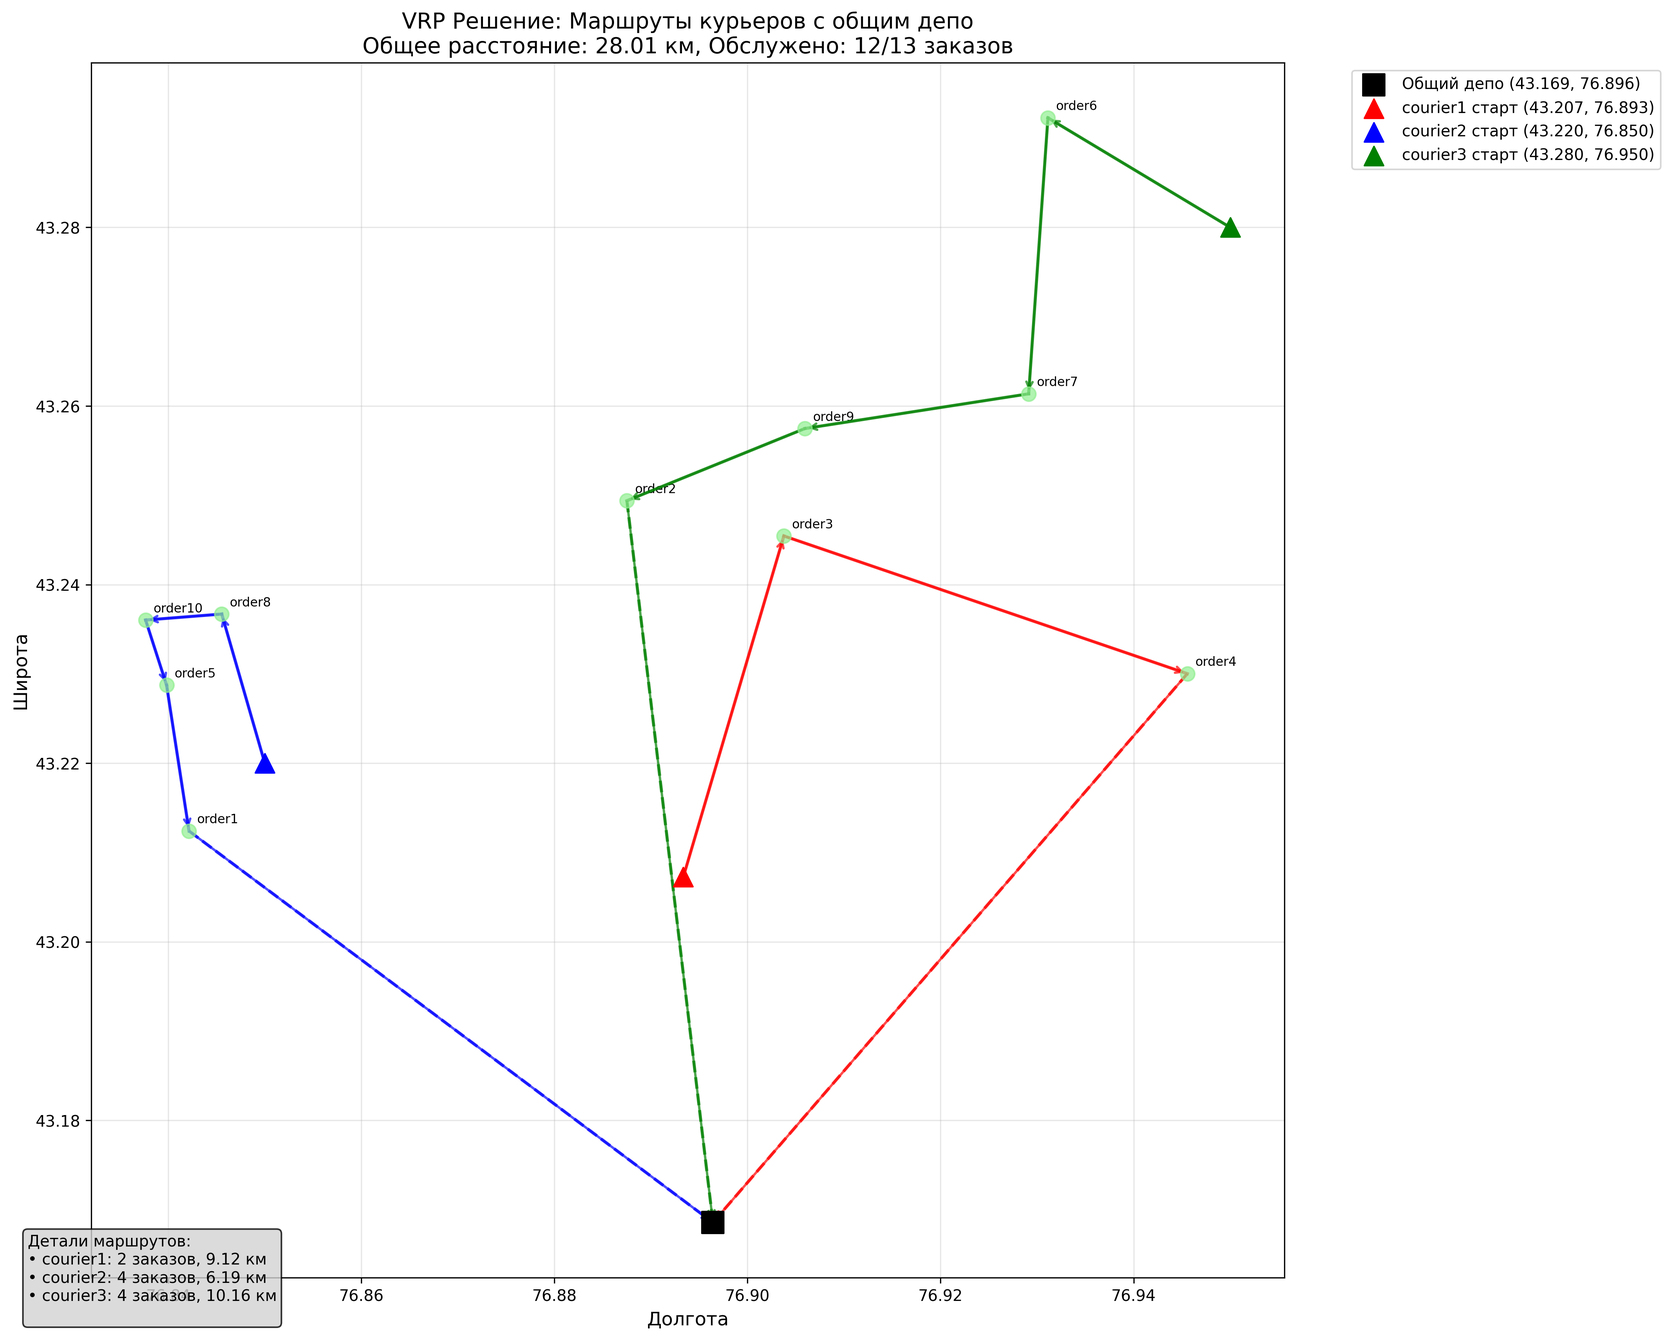
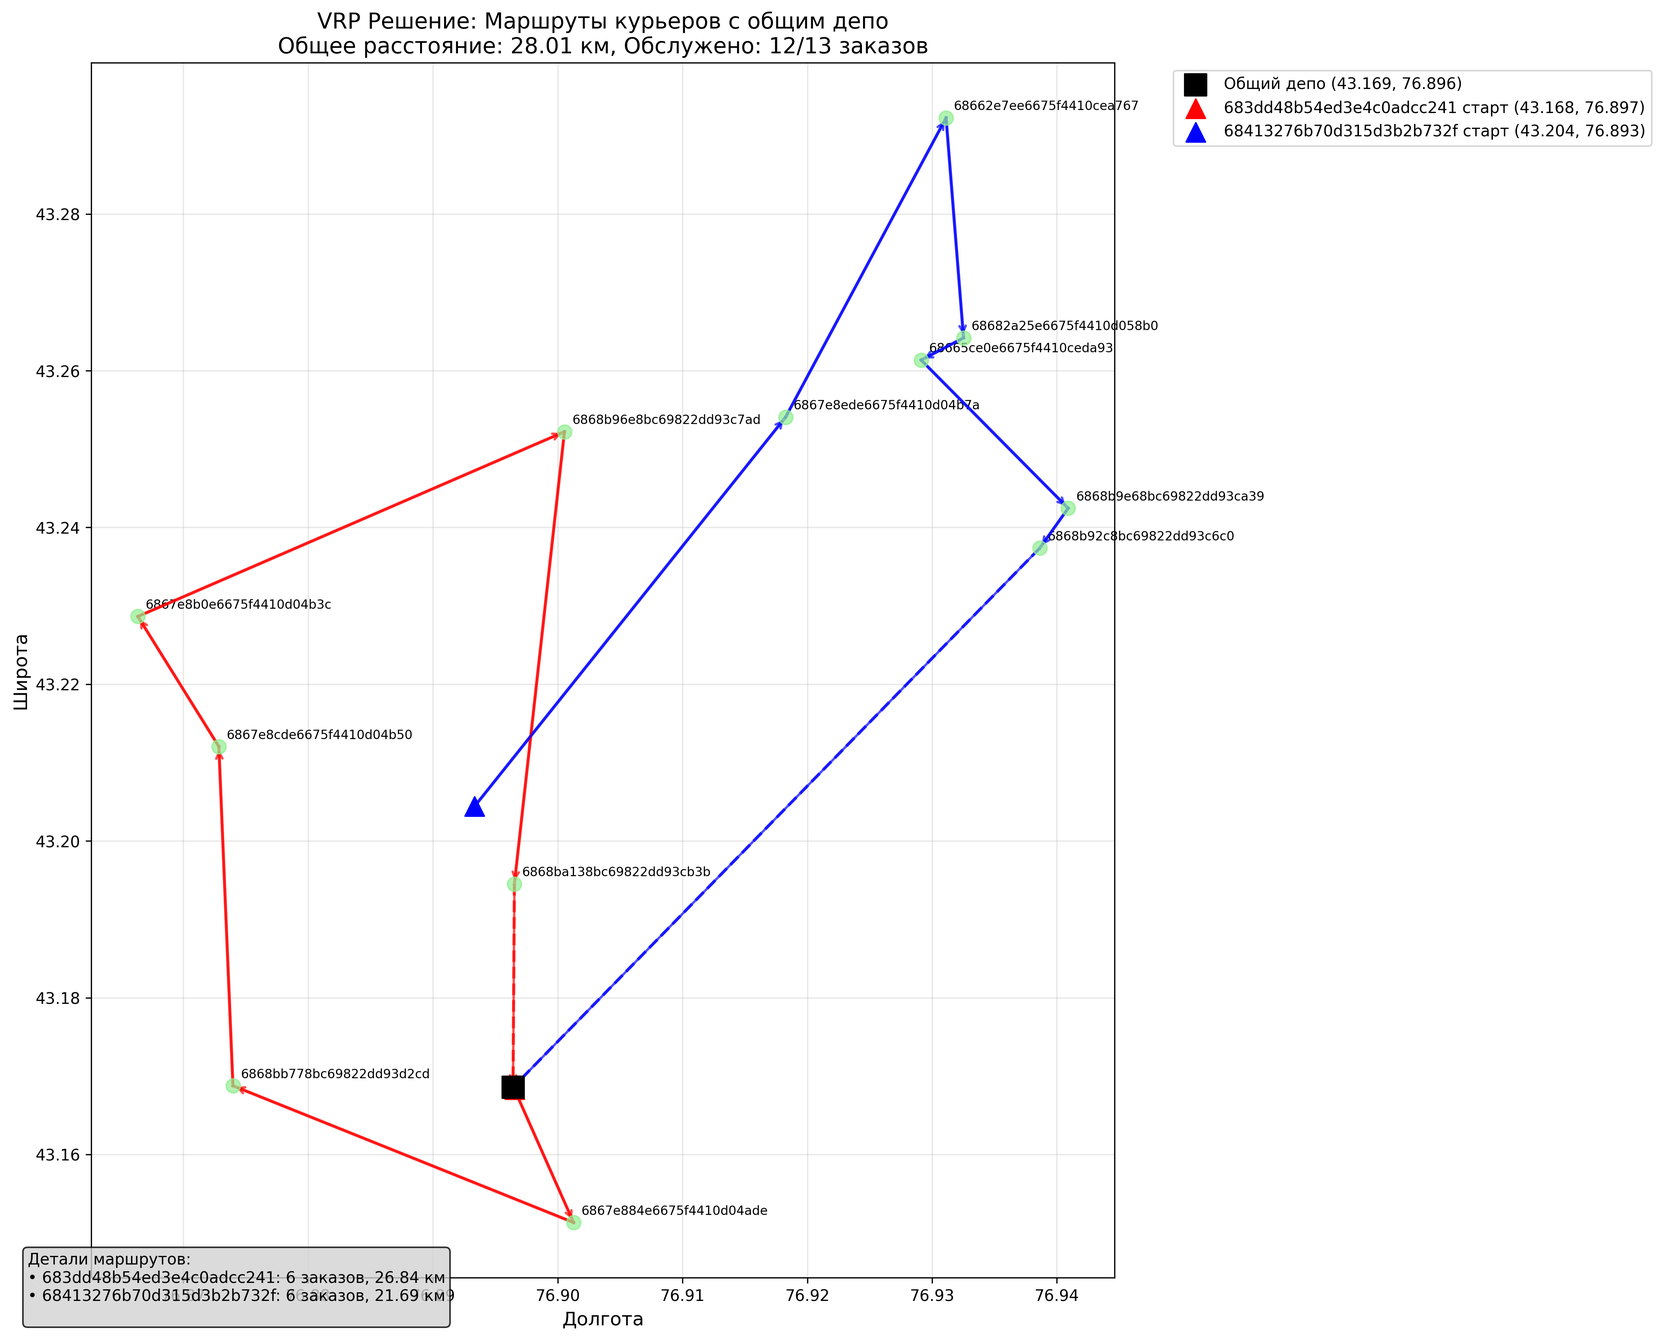
05.07.2025 orTools version 3

diff --git a/test_optimization.js b/test_optimization.js
@@ -1,0 +1,150 @@
+import { runPythonVRP } from './orTools.js';
+import { spawn } from 'child_process';
+import path from 'path';
+
+// Тестовые данные из вашего лога
+const testData = {
+    couriers: [
+        {
+            id: '683dd48b54ed3e4c0adcc241',
+            lat: 43.168277314921774,
+            lon: 76.89654142009347
+        },
+        {
+            id: '68413276b70d315d3b2b732f',
+            lat: 43.2044094,
+            lon: 76.893334
+        }
+    ],
+    orders: [
+        { id: '68662e7ee6675f4410cea767', lat: 43.292268, lon: 76.931119 },
+        { id: '68665ce0e6675f4410ceda93', lat: 43.261362, lon: 76.929122 },
+        { id: '6867e884e6675f4410d04ade', lat: 43.151319, lon: 76.901267 },
+        { id: '6867e8b0e6675f4410d04b3c', lat: 43.228644, lon: 76.866358 },
+        { id: '6867e8cde6675f4410d04b50', lat: 43.212045, lon: 76.872848 },
+        { id: '6867e8ede6675f4410d04b7a', lat: 43.254082, lon: 76.918261 },
+        { id: '68682a25e6675f4410d058b0', lat: 43.264191, lon: 76.932518 },
+        { id: '6868b92c8bc69822dd93c6c0', lat: 43.237369, lon: 76.938627 },
+        { id: '6868b96e8bc69822dd93c7ad', lat: 43.252214, lon: 76.90054 },
+        { id: '6868b9e68bc69822dd93ca39', lat: 43.242453, lon: 76.9409 },
+        { id: '6868ba138bc69822dd93cb3b', lat: 43.194514, lon: 76.896529 },
+        { id: '6868bb778bc69822dd93d2cd', lat: 43.168765, lon: 76.873977 }
+    ],
+    courier_restrictions: {}
+};
+
+// Функция для запуска старого алгоритма
+function runOldAlgorithm(couriers, orders, courier_restrictions) {
+    return new Promise((resolve, reject) => {
+        const pythonPath = process.platform === "win32"
+            ? path.join(process.cwd(), "venv", "Scripts", "python.exe")
+            : path.join(process.cwd(), "venv", "bin", "python");
+
+        const python = spawn(pythonPath, ["./orTools/vrp_solver2.py"]);
+
+        const input = {
+            common_depot: { id: "depot", lat: 43.16857, lon: 76.89642 },
+            couriers,
+            orders,
+            courier_restrictions,
+        };
+
+        let output = "";
+        let error = "";
+
+        python.stdout.on("data", (data) => {
+            output += data.toString();
+        });
+
+        python.stderr.on("data", (data) => {
+            error += data.toString();
+        });
+
+        python.on("close", (code) => {
+            if (code === 0) {
+                try {
+                    const parsed = JSON.parse(output);
+                    resolve(parsed);
+                } catch (e) {
+                    reject("Ошибка парсинга: " + e.message);
+                }
+            } else {
+                reject(`Старый алгоритм завершился с кодом ${code}\n${error}`);
+            }
+        });
+
+        python.stdin.write(JSON.stringify(input));
+        python.stdin.end();
+    });
+}
+
+// Функция для анализа результатов
+function analyzeResults(routes, label) {
+    const orderCounts = routes.map(r => r.orders_count);
+    const distances = routes.map(r => r.distance_km);
+    const totalDistance = distances.reduce((a, b) => a + b, 0);
+    const maxOrders = Math.max(...orderCounts);
+    const minOrders = Math.min(...orderCounts);
+    const balance = maxOrders - minOrders;
+
+    console.log(`\n=== ${label} ===`);
+    console.log(`Распределение заказов: ${orderCounts.join('/')}`);
+    console.log(`Расстояния: ${distances.join('км, ')}км`);
+    console.log(`Общее расстояние: ${totalDistance.toFixed(2)}км`);
+    console.log(`Балансировка: ${balance} (0 = идеальная)`);
+    
+    return {
+        orderCounts,
+        distances,
+        totalDistance,
+        balance
+    };
+}
+
+// Основная функция тестирования
+async function testOptimization() {
+    console.log('🧪 Тестирование оптимизации VRP алгоритма...');
+    console.log(`Курьеры: ${testData.couriers.length}`);
+    console.log(`Заказы: ${testData.orders.length}`);
+    
+    try {
+        // Запускаем старый алгоритм
+        console.log('\n🔄 Запуск старого алгоритма...');
+        const oldResults = await runOldAlgorithm(
+            testData.couriers,
+            testData.orders,
+            testData.courier_restrictions
+        );
+        
+        const oldAnalysis = analyzeResults(oldResults, 'СТАРЫЙ АЛГОРИТМ');
+        
+        // Запускаем новый алгоритм
+        console.log('\n🔄 Запуск нового оптимизированного алгоритма...');
+        const newResults = await runPythonVRP(
+            testData.couriers,
+            testData.orders,
+            testData.courier_restrictions
+        );
+        
+        const newAnalysis = analyzeResults(newResults, 'НОВЫЙ АЛГОРИТМ');
+        
+        // Сравнение результатов
+        console.log('\n📊 СРАВНЕНИЕ РЕЗУЛЬТАТОВ:');
+        console.log(`Улучшение балансировки: ${oldAnalysis.balance} → ${newAnalysis.balance} (${oldAnalysis.balance - newAnalysis.balance >= 0 ? '✅' : '❌'})`);
+        console.log(`Изменение расстояния: ${oldAnalysis.totalDistance.toFixed(2)}км → ${newAnalysis.totalDistance.toFixed(2)}км (${(newAnalysis.totalDistance - oldAnalysis.totalDistance).toFixed(2)}км)`);
+        
+        if (newAnalysis.balance < oldAnalysis.balance) {
+            console.log('🎉 Новый алгоритм показал лучшую балансировку!');
+        }
+        
+        if (newAnalysis.totalDistance < oldAnalysis.totalDistance) {
+            console.log('🎉 Новый алгоритм показал лучшее расстояние!');
+        }
+        
+    } catch (error) {
+        console.error('❌ Ошибка при тестировании:', error);
+    }
+}
+
+// Запуск теста
+testOptimization(); 

diff --git a/orTools.js b/orTools.js
@@ -253,31 +253,36 @@ export default async function orTools() {
     }, {});
 
 
-    // // Пример вызова:
+    // Пример вызова:
     // const couriers = [
-    //     {"id": "courier1", "lat": 43.207262, "lon": 76.893349},
-    //     {"id": "courier2", "lat": 43.22000, "lon": 76.85000},  
-    //     {"id": "courier3", "lat": 43.28000, "lon": 76.95000},
-    // ];
+    //     {
+    //         id: '683dd48b54ed3e4c0adcc241',
+    //         lat: 43.168277314921774,
+    //         lon: 76.89654142009347
+    //     },
+    //     {
+    //         id: '68413276b70d315d3b2b732f',
+    //         lat: 43.2044094,
+    //         lon: 76.893334
+    //     }
+    // ]
   
     // const orders = [
-    //     {"id": "order1", "lat": 43.212409, "lon": 76.842149},
-    //     {"id": "order2", "lat": 43.249392, "lon": 76.887507},
-    //     {"id": "order3", "lat": 43.245447, "lon": 76.903766},
-    //     {"id": "order4", "lat": 43.230026, "lon": 76.94556},
-    //     {"id": "order5", "lat": 43.228736, "lon": 76.839826},
-    //     {"id": "order6", "lat": 43.292268, "lon": 76.931119},
-    //     {"id": "order7", "lat": 43.261362, "lon": 76.929122},
-    //     {"id": "order8", "lat": 43.236701, "lon": 76.845539},
-    //     {"id": "order9", "lat": 43.257476, "lon": 76.905942},
-    //     {"id": "order10", "lat": 43.236031, "lon": 76.837653},
+    //     { id: '68662e7ee6675f4410cea767', lat: 43.292268, lon: 76.931119 },
+    //     { id: '68665ce0e6675f4410ceda93', lat: 43.261362, lon: 76.929122 },
+    //     { id: '6867e884e6675f4410d04ade', lat: 43.151319, lon: 76.901267 },
+    //     { id: '6867e8b0e6675f4410d04b3c', lat: 43.228644, lon: 76.866358 },
+    //     { id: '6867e8cde6675f4410d04b50', lat: 43.212045, lon: 76.872848 },
+    //     { id: '6867e8ede6675f4410d04b7a', lat: 43.254082, lon: 76.918261 },
+    //     { id: '68682a25e6675f4410d058b0', lat: 43.264191, lon: 76.932518 },
+    //     { id: '6868b92c8bc69822dd93c6c0', lat: 43.237369, lon: 76.938627 },
+    //     { id: '6868b96e8bc69822dd93c7ad', lat: 43.252214, lon: 76.90054 },
+    //     { id: '6868b9e68bc69822dd93ca39', lat: 43.242453, lon: 76.9409 },
+    //     { id: '6868ba138bc69822dd93cb3b', lat: 43.194514, lon: 76.896529 },
+    //     { id: '6868bb778bc69822dd93d2cd', lat: 43.168765, lon: 76.873977 }
     // ]
     
-    // const courier_restrictions = {
-    //     "order1": [1, 2],
-    //     "order2": [1, 2],
-    //     "order7": [2],
-    // }
+    // const courier_restrictions = {}
 
     console.log("Начало распределения в orTools.js");
     
@@ -288,6 +293,17 @@ export default async function orTools() {
     console.log("couriers = ", couriers)
     console.log("orders = ", orders)
     console.log("courier_restrictions = ", courier_restrictions)
+    
+    // Проверяем, есть ли данные для обработки
+    if (couriers.length === 0) {
+        console.log("❌ Нет курьеров с корректными координатами");
+        return;
+    }
+    
+    if (orders.length === 0) {
+        console.log("❌ Нет заказов для распределения");
+        return;
+    }
     
     const result = await runPythonVRP(couriers, orders, courier_restrictions);
     console.log("Готовые маршруты:", result);

diff --git a/orTools/vrp_solver_optimized.py b/orTools/vrp_solver_optimized.py
@@ -13,12 +13,57 @@ couriers = input_data["couriers"]
 orders = input_data["orders"]
 courier_restrictions = input_data["courier_restrictions"]
 
+# ПРОВЕРКИ НА КОРРЕКТНОСТЬ ДАННЫХ
+print("=== ПРОВЕРКА ВХОДНЫХ ДАННЫХ ===", file=sys.stderr)
+
+# Проверяем курьеров
+valid_couriers = []
+for i, courier in enumerate(couriers):
+    if courier.get("lat") is not None and courier.get("lon") is not None:
+        valid_couriers.append(courier)
+        print(f"✅ Курьер {courier['id']}: ({courier['lat']}, {courier['lon']})", file=sys.stderr)
+    else:
+        print(f"❌ Курьер {courier['id']}: отсутствуют координаты", file=sys.stderr)
+
+# Проверяем заказы
+valid_orders = []
+for i, order in enumerate(orders):
+    if order.get("lat") is not None and order.get("lon") is not None:
+        valid_orders.append(order)
+        print(f"✅ Заказ {order['id']}: ({order['lat']}, {order['lon']})", file=sys.stderr)
+    else:
+        print(f"❌ Заказ {order['id']}: отсутствуют координаты", file=sys.stderr)
+
+# Обновляем списки валидными данными
+couriers = valid_couriers
+orders = valid_orders
+
+print(f"\nВалидные курьеры: {len(couriers)}", file=sys.stderr)
+print(f"Валидные заказы: {len(orders)}", file=sys.stderr)
+
+# Проверяем минимальные требования
+if len(couriers) == 0:
+    print("❌ ОШИБКА: Нет курьеров с корректными координатами!", file=sys.stderr)
+    print("[]", file=sys.stdout)  # Возвращаем пустой результат
+    sys.exit(0)
+
+if len(orders) == 0:
+    print("❌ ПРЕДУПРЕЖДЕНИЕ: Нет заказов для распределения!", file=sys.stderr)
+    print("[]", file=sys.stdout)  # Возвращаем пустой результат
+    sys.exit(0)
+
+if len(orders) < len(couriers):
+    print(f"❌ ПРЕДУПРЕЖДЕНИЕ: Заказов ({len(orders)}) меньше чем курьеров ({len(couriers)})", file=sys.stderr)
+    print("Некоторые курьеры останутся без заказов", file=sys.stderr)
+
+print("✅ Данные корректны, продолжаем оптимизацию...", file=sys.stderr)
+
 print("Ограничения на курьеров:", file=sys.stderr)
 for order_id, allowed_couriers in courier_restrictions.items():
     if not allowed_couriers:
         print(f"  {order_id}: исключен из обслуживания", file=sys.stderr)
     else:
-        courier_names = [couriers[i]['id'] for i in allowed_couriers]
+        courier_names = [couriers[i]['id'] for i in allowed_couriers if i < len(couriers)]
         print(f"  {order_id}: только {', '.join(courier_names)}", file=sys.stderr)
 
 # Создаем список локаций: депо + курьеры + заказы
@@ -99,9 +144,15 @@ print(f"Максимум заказов на курьера: {max_orders_per_cou
 
 # Добавляем размерность для подсчета заказов
 def unit_callback(from_index, to_index):
-    return 1
+    from_node = manager.IndexToNode(from_index)
+    to_node = manager.IndexToNode(to_index)
+    
+    # Увеличиваем счетчик только при посещении заказа (не депо и не курьера)
+    if to_node >= num_couriers + 1:  # Это заказ
+        return 1
+    return 0
 
-unit_callback_index = routing.RegisterUnaryTransitCallback(unit_callback)
+unit_callback_index = routing.RegisterTransitCallback(unit_callback)
 
 # Добавляем ограничения для каждого курьера
 for vehicle_id in range(num_couriers):
@@ -113,54 +164,38 @@ for vehicle_id in range(num_couriers):
         True,  # start cumul to zero
         f"Distance_{vehicle_id}"
     )
-    
-    # Строгое ограничение на количество заказов
-    count_dimension_name = f"Count_{vehicle_id}"
-    routing.AddDimension(
-        unit_callback_index,
-        0,  # no slack
-        max_orders_per_courier + 1,  # максимум заказов + 1 для курьера
-        True,  # start cumul to zero
-        count_dimension_name
+
+# Добавляем общую размерность для подсчета заказов
+routing.AddDimension(
+    unit_callback_index,
+    0,  # no slack
+    max_orders_per_courier,  # максимум заказов на курьера
+    True,  # start cumul to zero
+    "OrderCount"
+)
+
+# Получаем размерность для установки ограничений
+order_count_dimension = routing.GetDimensionOrDie("OrderCount")
+
+# Устанавливаем ограничения на количество заказов для каждого курьера
+for vehicle_id in range(num_couriers):
+    # Мягкое ограничение на минимальное количество заказов
+    order_count_dimension.SetCumulVarSoftLowerBound(
+        routing.End(vehicle_id), 
+        min_orders_per_courier, 
+        10000  # штраф за невыполнение минимума
     )
     
-    # Получаем размерность для установки ограничений
-    count_dimension = routing.GetDimensionOrDie(count_dimension_name)
-    
-    # Устанавливаем минимальное количество заказов
-    for node_index in range(num_locations):
-        if node_index >= num_couriers + 1:  # только для заказов
-            routing_index = manager.NodeToIndex(node_index)
-            # Если заказ назначен этому курьеру, увеличиваем счетчик
-            if routing.IsVehicleUsed(routing_index, vehicle_id):
-                count_dimension.SetCumulVarSoftLowerBound(
-                    routing.End(vehicle_id), 
-                    min_orders_per_courier, 
-                    10000  # штраф за невыполнение минимума
-                )
+    # Жесткое ограничение на максимальное количество заказов
+    order_count_dimension.SetCumulVarSoftUpperBound(
+        routing.End(vehicle_id), 
+        max_orders_per_courier, 
+        10000  # штраф за превышение максимума
+    )
 
 # Увеличиваем штраф за использование курьера для стимуляции равномерного распределения
 for vehicle_id in range(num_couriers):
     routing.SetFixedCostOfVehicle(5000, vehicle_id)
-
-# Добавляем штраф за дисбаланс нагрузки
-def balance_callback(vehicle_id):
-    """Штраф за отклонение от идеального количества заказов"""
-    def callback(from_index, to_index):
-        # Подсчитываем заказы для этого курьера
-        orders_count = 0
-        index = routing.Start(vehicle_id)
-        while not routing.IsEnd(index):
-            node = manager.IndexToNode(index)
-            if node >= num_couriers + 1:  # это заказ
-                orders_count += 1
-            index = routing.NextVar(index)
-        
-        # Штраф за отклонение от идеального количества
-        deviation = abs(orders_count - ideal_orders_per_courier)
-        return deviation * 1000  # штраф 1000 единиц за каждый лишний/недостающий заказ
-    
-    return callback
 
 # УЛУЧШЕННЫЕ ПАРАМЕТРЫ ПОИСКА
 search_params = pywrapcp.DefaultRoutingSearchParameters()
